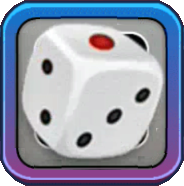
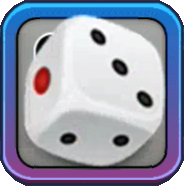
diceroll finished

Changed region(s): [[0.1087, 0.0538, 0.9239, 0.914], [0.3261, 0.2957, 0.4076, 0.5645], [0.5435, 0.4032, 0.5707, 0.4301]]

diff --git a/src/main/java/ap/ap_project/HelloController.java b/src/main/java/ap/ap_project/HelloController.java
@@ -176,7 +176,7 @@ public class HelloController implements Initializable {
                     arrow.setVisible(false);
                     dc = (random.nextInt(6)+1);
                     for (int i = 0; i < 15; i++) {
-                        File diceFile = new File("src\\main\\resources\\ap\\ap_project\\dice" + (random.nextInt(6)+1) + ".png");
+                        File diceFile = new File("src\\main\\resources\\ap\\ap_project\\diceRoll" + (i+1)+ ".png");
                         System.out.println(diceFile.getAbsolutePath());
                         diceView.setImage(new Image(diceFile.toURI().toString()));
                         Thread.sleep(100);
